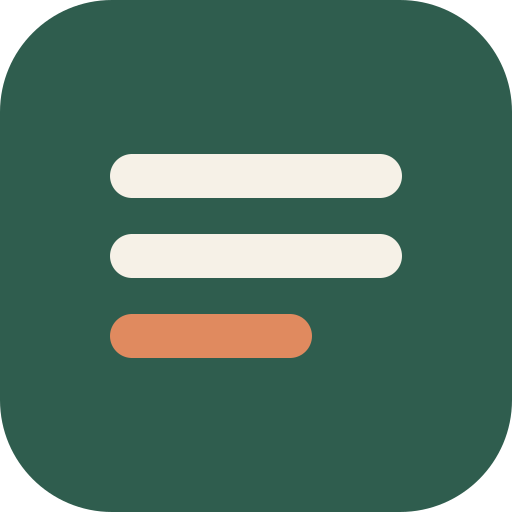
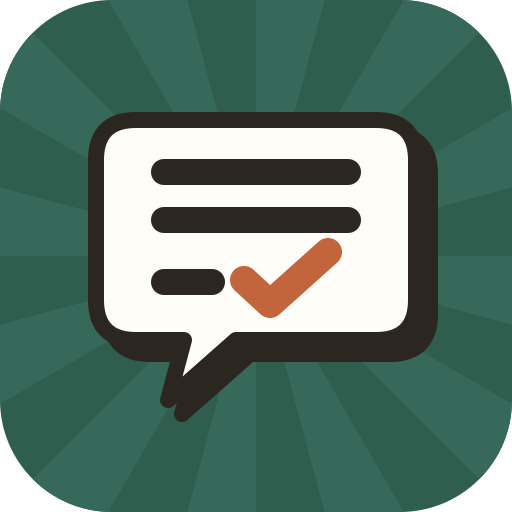
feat: 앱 아이콘을 말풍선 + 세 줄 + ✓ 심볼로 교체
- 회의에서 오간 말(말풍선) → 딱 세 줄 → 원문 확인(✓)이라는 앱의 의도를 한 그림에 담음
- 빈티지 햇살 무늬 + 굵은 먹선 + 비껴 찍힌 그림자로 미국 고전 만화 감성, 앱 안 말풍선과 통일
- 안드로이드 원형 자르기 · 32px 크기에서도 ✓가 보이는지 확인, PNG 크기별 다시 생성
- README PWA 항목에 아이콘 설명 추가

Changed region(s): [[0.1562, 0.2188, 0.875, 0.8438]]

diff --git a/README.md b/README.md
@@ -18,7 +18,7 @@
   - 기능 옆 (?) 버튼 → 킴대리가 아래에서 말풍선 대사창으로 설명 (부드럽게 열리고 닫힘)
   - 첫 결과에서 한 번만 뜨는 안내, 기다릴 때 혼잣말, 근거가 모두 ✓면 "근거 100%" 도장, 회의 30분이 넘으면 "김이 식어 가요" 알림
   - 재미는 가장자리에만: 요약 · 결정 · 할 일과 복사되는 글은 단정하게 유지
-- **앱처럼 설치(PWA)**: 폰에서 "홈 화면에 추가" → 주소창 없이 열림
+- **앱처럼 설치(PWA)**: 폰에서 "홈 화면에 추가" → 주소창 없이 열림. 아이콘은 빈티지 햇살 무늬 위 만화 말풍선 + 세 줄 + ✓ (회의 대화 → 세 줄 → 원문 확인)
 - **다크 모드**: 폰 설정을 따라 자동 전환
 - 무료 AI 모델을 빠른 순서로 시도하고, 실패하면 다음 모델로 넘어감
 
